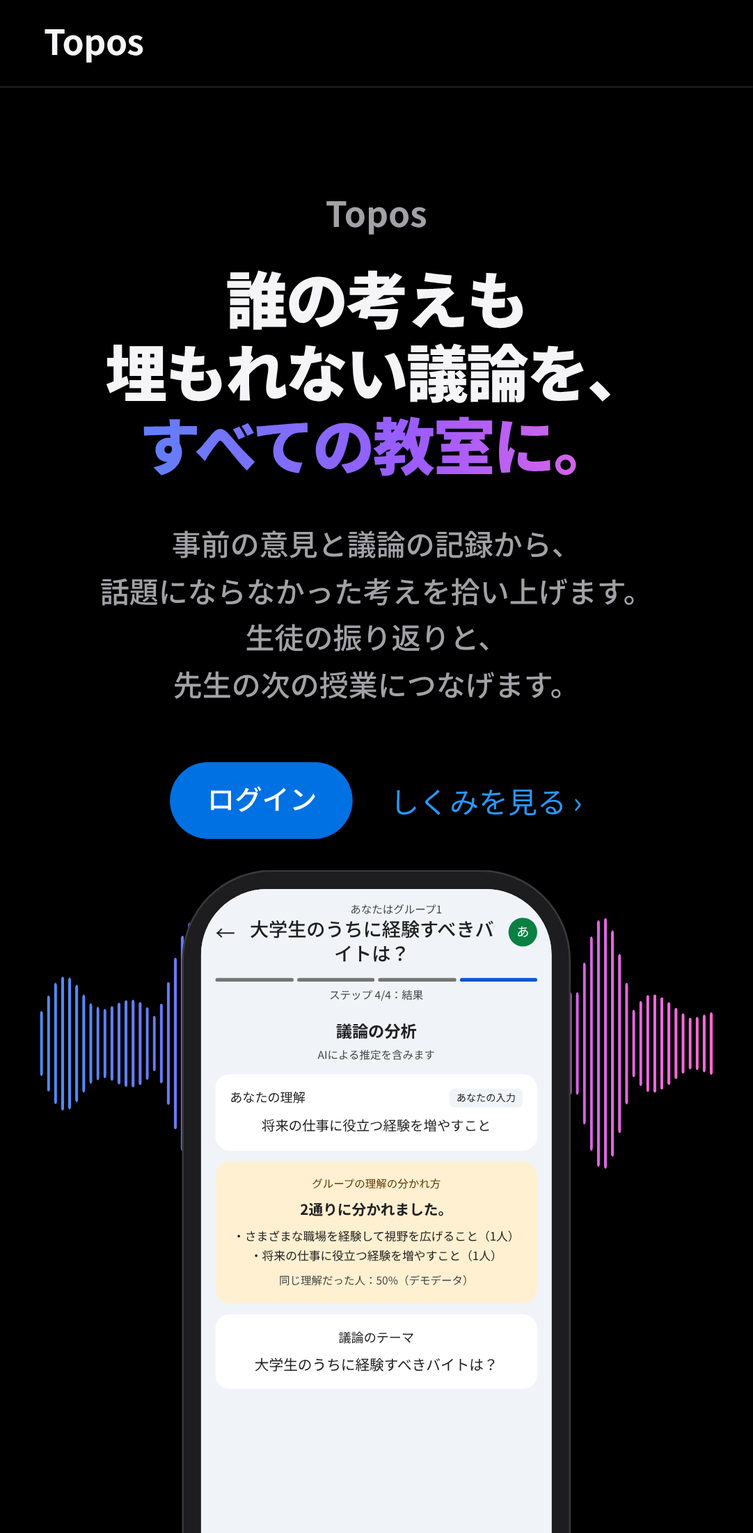
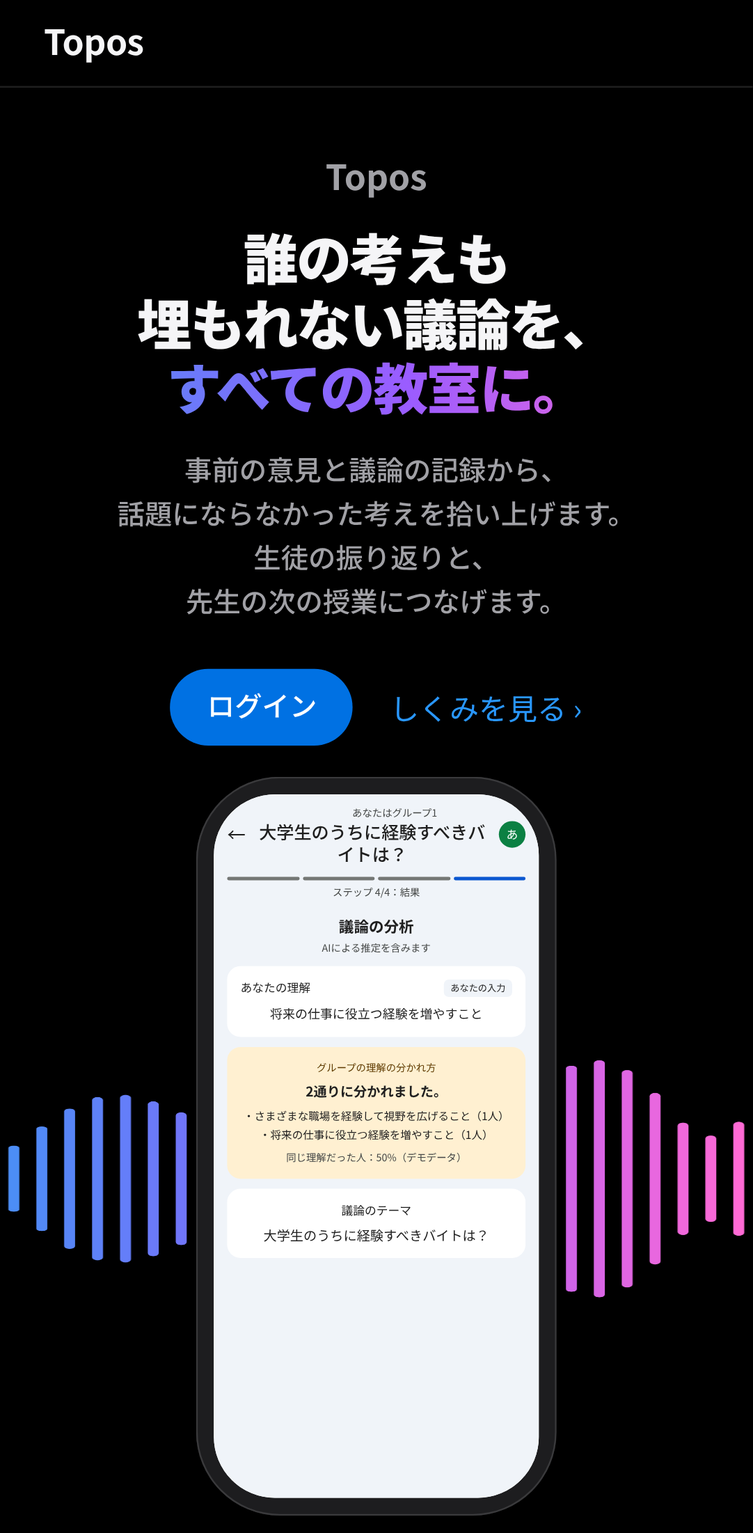
fix(web): LP のヒーローを画面に収め、波を左右いっぱいに広げる
- ヒーローのデバイス（ノート PC とスマホ）全体が、画面の高さに収まるように縮める。見出しまわりの余白と文字の大きさを、画面の高さに合わせて少し詰める
- 背景の波を、デバイスの拡大縮小から切り離して画面の横幅いっぱいに描く。棒の間隔はおよそ15pxで、幅が変わったら描き直す
- 最後の CTA の波も横幅いっぱいにする

Claude-Session: https://claude.ai/code/session_016r5c49ZicmAPUPZcqmcLVJ

Changed region(s): [[0.0, 0.0926, 1.0, 1.0], [0.793, 0.247, 0.8235, 0.2779]]

diff --git a/web/src/components/lp/lpMarkup.ts b/web/src/components/lp/lpMarkup.ts
@@ -1,2 +1,2 @@
 /* LP の本文（静的な HTML）。動きは lpMotion.js が付ける。文言の正本は Figma「v8 Topos」 */
-export const LP_HTML = "<nav class=\"nav\" aria-label=\"メイン\"><div class=\"wrap\"><a href=\"/lp\" class=\"nm\">Topos</a><div class=\"r\"><a href=\"#why\">なぜ必要か</a><a href=\"#find\">しくみ</a><a href=\"#teachers\">先生へ</a><a href=\"#align\">学習指導要領</a><a href=\"#faq\">よくある質問</a><a href=\"/\" class=\"pill\">ログイン</a></div></div></nav>\n\n<header class=\"hero\" id=\"hero\">\n  <div class=\"htx\">\n    <div class=\"kick rv\">Topos</div>\n    <h1><span class=\"rv d1\">誰の考えも<br class=\"sp\">埋もれない議論を、</span><span class=\"rv d2 gt\">すべての教室に。</span></h1>\n    <p class=\"lead rv d3\">事前の意見と議論の記録から、<br class=\"sp\">話題にならなかった考えを拾い上げます。<br>生徒の振り返りと、<br class=\"sp\">先生の次の授業につなげます。</p>\n    <div class=\"acts rv d4\"><a href=\"/\" class=\"pill\">ログイン</a><a href=\"#find\" class=\"more\">しくみを見る ›</a></div>\n  </div>\n  <div class=\"sw\" id=\"sw\"><div class=\"stage\" id=\"stage\" aria-hidden=\"true\">\n    <svg class=\"wave\" data-wave viewBox=\"0 0 1440 340\" preserveAspectRatio=\"none\"></svg>\n    <div class=\"dev laptop\" id=\"laptop\"><div class=\"bz\"><div class=\"scr\" data-clone=\"182:568\" data-ow=\"1440\" style=\"width:968px;height:605px;border-radius:4px\"><div class=\"app\" style=\"transform:scale(.6722)\" data-app=\"pc\"></div></div></div><div class=\"base\"></div></div>\n    <div class=\"dev phone\" id=\"hphone\"><div class=\"scr\" data-clone=\"199:170\" data-ow=\"390\" style=\"width:228px;height:493px;border-radius:42px\"><div class=\"m\" data-m=\"result\" style=\"transform:scale(.5846)\"></div></div></div>\n  </div></div>\n</header>\n\n<section class=\"st\" id=\"statement\" aria-label=\"話さなかった子の考え\">\n  <div class=\"pin\"><div class=\"wrap\"><p class=\"big\" data-chars><span>話さなかったことは、</span><br><span class=\"gtw\">考えがなかったこと</span><br><span class=\"gtw\">ではない。</span></p></div></div>\n</section>\n\n<section class=\"why\" id=\"why\">\n  <div class=\"wrap\">\n    <h2 class=\"rv\">声の大きさで、<br class=\"pc\">学びが<br class=\"sp\">決まらないように。</h2>\n    <p class=\"lead rv d1\">グループで話し合う授業で、<br class=\"sp\">こんな場面はありませんか。</p>\n    <div class=\"cols\">\n      <div class=\"rv\"><div class=\"vz bars\"><i></i><i></i><i></i><i class=\"on\"></i></div><h3>書いてあるのに、<br>話題にならない意見。</h3><p>話し合いは、発言の多い子の意見から進みがちです。</p></div>\n      <div class=\"rv d1\"><div class=\"vz fork\"><svg viewBox=\"0 0 120 80\" width=\"120\" height=\"80\" aria-hidden=\"true\"><path d=\"M60 4 C60 40 20 34 20 76\" fill=\"none\" stroke=\"#6aa4ff\" stroke-width=\"4\" stroke-linecap=\"round\"/><path d=\"M60 4 C60 40 100 34 100 76\" fill=\"none\" stroke=\"#c18cff\" stroke-width=\"4\" stroke-linecap=\"round\"/></svg></div><h3>同じ結論でも、<br>理解は同じとは限らない。</h3><p>「賛成」の中身が、生徒ごとにちがうこともあります。</p></div>\n      <div class=\"rv d2\"><div class=\"vz dots\"><i class=\"on\"></i><i class=\"\"></i><i class=\"\"></i><i class=\"\"></i><i class=\"\"></i><i class=\"\"></i><i class=\"\"></i><i class=\"\"></i></div><h3>先生がその場で聞けるのは、<br>8グループのうち1つ。</h3><p>40人のクラスなら、8つの話し合いが同時に進みます。</p></div>\n    </div>\n  </div>\n</section>\n\n<section class=\"find\" id=\"find\">\n  <div class=\"wrap\">\n    <h2 class=\"rv\">Toposは、<br class=\"sp\">埋もれた考えを<br>3つの場所で見つけます。</h2>\n    <p class=\"src2 rv d1\">手がかりにするのは、事前に書いた意見、<br class=\"sp\">議論の音声、議論後に書く結論の一文。</p>\n    <div class=\"three\">\n      <div class=\"rv\"><i style=\"background:#ff6ad5\"></i><b>言えなかった意見</b><span>多様な考えを、学びに生かす</span></div>\n      <div class=\"rv d1\"><i style=\"background:#c18cff\"></i><b>言葉にしなかったズレ</b><span>ちがいに気づき、理解を深める</span></div>\n      <div class=\"rv d2\"><i style=\"background:#6aa4ff\"></i><b>黙った瞬間</b><span>振り返り、次の議論につなげる</span></div>\n    </div>\n  </div>\n</section>\n\n<section class=\"lost\" id=\"lost\">\n  <div class=\"pin\"><div class=\"wrap\">\n    <div class=\"hd\"><div class=\"sl\"><i style=\"background:#ff6ad5\"></i>言えなかった意見</div><h2>書いたのに、<br class=\"sp\">話題にならなかった。</h2></div>\n    <div class=\"field\" id=\"field\" aria-hidden=\"true\">\n      <div class=\"oc rd\" data-x=\"22\" data-y=\"30\" data-mx=\"27\" data-my=\"20\" data-d=\".2\"><div class=\"who\">事前の意見</div><div class=\"tx\">接客で、人と話す力がつく</div><div class=\"tg\">話された</div></div>\n      <div class=\"oc rd\" data-x=\"50\" data-y=\"16\" data-mx=\"74\" data-my=\"6\" data-d=\".35\"><div class=\"who\">事前の意見</div><div class=\"tx\">将来の仕事に近いバイトがいい</div><div class=\"tg\">話された</div></div>\n      <div class=\"oc rd\" data-x=\"79\" data-y=\"34\" data-mx=\"73\" data-my=\"46\" data-d=\".25\"><div class=\"who\">事前の意見</div><div class=\"tx\">いろんな職場で視野を広げたい</div><div class=\"tg\">話された</div></div>\n      <div class=\"oc tgt\" id=\"lostc\" data-x=\"66\" data-y=\"80\" data-mx=\"30\" data-my=\"78\" data-d=\".6\"><div class=\"who\">事前の意見</div><div class=\"tx\">勉強と両立できるかで選びたい</div><div class=\"tg\">まだ話されていない</div></div>\n    </div>\n    <p class=\"cap\">まだ話されていない論点は、<br class=\"sp\">議論の途中で先生に届きます。<br><b>全員に問いかけるかは、<br class=\"sp\">先生が決めます。</b></p>\n  </div></div>\n</section>\n\n<section class=\"split\" id=\"split\">\n  <div class=\"pin\"><div class=\"in\">\n    <div class=\"hd\"><div class=\"sl\"><i style=\"background:#c18cff\"></i>言葉にしなかったズレ</div><h2>同じ結論なのに、<br class=\"sp\">捉え方はちがっていた。</h2></div>\n    <div class=\"cl\"><div class=\"lb\">グループの結論</div><div class=\"q\">いろいろなバイトを経験すべき</div></div>\n    <svg class=\"lines pc\" viewBox=\"0 0 1200 300\" preserveAspectRatio=\"none\" aria-hidden=\"true\">\n      <path class=\"la\" d=\"M600 0 C600 150 300 130 300 300\" fill=\"none\" stroke=\"#6aa4ff\" stroke-width=\"3\" stroke-linecap=\"round\" vector-effect=\"non-scaling-stroke\"/>\n      <path class=\"lb\" d=\"M600 0 C600 150 900 130 900 300\" fill=\"none\" stroke=\"#c18cff\" stroke-width=\"3\" stroke-linecap=\"round\" vector-effect=\"non-scaling-stroke\"/>\n    </svg>\n    <svg class=\"lines sp\" viewBox=\"0 0 390 300\" preserveAspectRatio=\"none\" aria-hidden=\"true\">\n      <path class=\"la\" d=\"M195 0 C195 140 100 120 100 300\" fill=\"none\" stroke=\"#6aa4ff\" stroke-width=\"3\" stroke-linecap=\"round\" vector-effect=\"non-scaling-stroke\"/>\n      <path class=\"lb\" d=\"M195 0 C195 140 290 120 290 300\" fill=\"none\" stroke=\"#c18cff\" stroke-width=\"3\" stroke-linecap=\"round\" vector-effect=\"non-scaling-stroke\"/>\n    </svg>\n    <div class=\"rds\">\n      <div class=\"rd ra\"><div class=\"lb\">生徒Aにとっては</div><div class=\"q\" style=\"color:var(--a)\">いろんな職場で、<br>視野を広げるため。</div></div>\n      <div class=\"rd rb\"><div class=\"lb\">生徒Bにとっては</div><div class=\"q\" style=\"color:var(--b)\">将来の仕事に<br>役立てるため。</div></div>\n    </div>\n    <p class=\"cap\">結論を一人ずつ書くと、<br class=\"sp\">理解のちがいが見えてきます。<br><b>その気づきが、<br class=\"sp\">考えを深めるきっかけに。</b></p>\n  </div></div>\n</section>\n\n<section class=\"mo\" id=\"moment\">\n  <div class=\"sl rv\"><i style=\"background:#6aa4ff\"></i>黙った瞬間</div>\n  <div class=\"num gt\" data-count=\"12\"><span class=\"d\">12</span>分</div>\n  <h2 class=\"rv\">話題がそれた、その瞬間。</h2>\n  <p class=\"rv d1\">Dさんの発言の割合は<b>46%から14%へ。</b><br>Toposが示すのは、<br class=\"sp\">議論の流れと発言の割合の変化。<br><b>それを手がかりに、<br class=\"sp\">そのときの自分を本人が振り返ります。</b></p>\n  <figure class=\"chart\" aria-label=\"Dさんの発言率のグラフ。12分ごろ、話題がそれた場面で46%から14%に下がった\">\n    <div class=\"ttl\">Dさんの発言の割合（20分の議論・推定）</div>\n    <div class=\"plot\">\n      <div class=\"band\"><span>話題がそれた</span></div>\n      <svg viewBox=\"0 0 1000 260\" preserveAspectRatio=\"none\" aria-hidden=\"true\">\n        <line x1=\"0\" y1=\"240\" x2=\"1000\" y2=\"240\" stroke=\"#3a3a3c\" vector-effect=\"non-scaling-stroke\"/>\n        <path class=\"area\" d=\"M0 132 C16.7 128.4 58.3 117.0 100 110.4 C141.7 103.8 200.0 97.8 250 92.4 C300.0 87.0 358.3 82.2 400 78 C441.7 73.8 470.8 67.8 500 67.2 C529.2 66.6 550.0 54.0 575 74.4 C600.0 94.8 620.8 172.8 650 189.6 C679.2 206.4 716.7 181.2 750 175.2 C783.3 169.2 808.3 159.0 850 153.6 C891.7 148.2 975.0 144.6 1000 142.8 L1000 240 L0 240 Z\" fill=\"url(#mg)\" opacity=\".35\"/>\n        <path class=\"ln\" d=\"M0 132 C16.7 128.4 58.3 117.0 100 110.4 C141.7 103.8 200.0 97.8 250 92.4 C300.0 87.0 358.3 82.2 400 78 C441.7 73.8 470.8 67.8 500 67.2 C529.2 66.6 550.0 54.0 575 74.4 C600.0 94.8 620.8 172.8 650 189.6 C679.2 206.4 716.7 181.2 750 175.2 C783.3 169.2 808.3 159.0 850 153.6 C891.7 148.2 975.0 144.6 1000 142.8\" fill=\"none\" stroke=\"url(#ml)\" stroke-width=\"4\" stroke-linecap=\"round\" vector-effect=\"non-scaling-stroke\"/>\n        <defs><linearGradient id=\"ml\" x1=\"0\" x2=\"1\"><stop offset=\"0\" stop-color=\"#4c8df6\"/><stop offset=\".55\" stop-color=\"#9b5cff\"/><stop offset=\"1\" stop-color=\"#ff6ad5\"/></linearGradient>\n        <linearGradient id=\"mg\" x1=\"0\" y1=\"0\" x2=\"0\" y2=\"1\"><stop offset=\"0\" stop-color=\"#8f7cff\" stop-opacity=\".7\"/><stop offset=\"1\" stop-color=\"#8f7cff\" stop-opacity=\"0\"/></linearGradient></defs>\n      </svg>\n      <div class=\"pt hi\" style=\"left:57.5%;top:28.6%\"><i></i><span>46%</span></div>\n      <div class=\"pt lo\" style=\"left:65%;top:72.9%\"><i class=\"pulse2\"></i><span>12分ごろ　14%</span></div>\n    </div>\n    <div class=\"ax\"><span>0分</span><span>5分</span><span>10分</span><span>15分</span><span>20分</span></div>\n  </figure>\n</section>\n\n<section class=\"story\" id=\"story\">\n  <div class=\"wrap\">\n    <div class=\"intro\"><h2 class=\"rv\">授業のあと、<br>一人ひとりの手元に。</h2></div>\n    <div class=\"grid\">\n      <div class=\"steps\">\n        <div class=\"stp\" data-step=\"0\"><div class=\"lb\">1　議論</div><h3>いつも通りに、<br>話すだけ。</h3><p>全員の意見がそろったら、議論を始めます。</p></div>\n        <div class=\"stp\" data-step=\"1\"><div class=\"lb\">2　結論の理解</div><h3>同じ言葉の、<br>ちがう理解。</h3><p>理解の分かれ方を、AIが推定して示します。</p></div>\n        <div class=\"stp\" data-step=\"2\"><div class=\"lb\">3　議論の流れ</div><h3>あの場面を、<br>もう一度。</h3><p>議論の流れを手がかりに、自分で振り返ります。</p></div>\n        <div class=\"stp\" data-step=\"3\"><div class=\"lb\">4　振り返り</div><h3>次の目標は、<br>自分で決める。</h3><p>立てた目標は、次の議論の前に表示されます。</p></div>\n      </div>\n      <div class=\"stk\"><div class=\"phone\"><div class=\"scr\" data-clone=\"199:170\" data-ow=\"390\" style=\"width:318px;height:688px;border-radius:42px\" id=\"sscr\">\n        <div class=\"m\" data-m=\"rec\" style=\"transform:scale(.8154)\"></div>\n        <div class=\"m\" data-m=\"result\" style=\"transform:scale(.8154);opacity:0\"></div>\n        <div class=\"m\" data-m=\"flow\" style=\"transform:scale(.8154);opacity:0\"></div>\n        <div class=\"m\" data-m=\"refl\" style=\"transform:scale(.8154);opacity:0\"></div>\n      </div></div></div>\n    </div>\n  </div>\n</section>\n\n<section class=\"rooms\" id=\"rooms\" aria-label=\"授業中と授業後に先生が見られるグループの範囲\">\n  <div class=\"pin\">\n    <div class=\"rc\"><p class=\"c1\">授業中、<br class=\"sp\">先生がその場で聞けるのは、<br>ひとつのグループだけ。</p><p class=\"c2\">授業のあとなら、<br>すべてのグループに<br class=\"sp\">目を向けられる。</p></div>\n    <div class=\"rgw\"><div class=\"grid8\" id=\"grid8\"><div class=\"room\" data-n=\"1\"><div class=\"rn\">グループ1</div><div class=\"nb\"><i style=\"background:#d3e3fd\"></i><i style=\"background:#fff0d1\"></i><i style=\"background:#f3edff\"></i><i style=\"background:#c2e7ff\"></i><i style=\"background:#ffd7ef\"></i><i style=\"background:#d3e3fd\"></i></div></div><div class=\"room\" data-n=\"2\"><div class=\"rn\">グループ2</div><div class=\"nb\"><i style=\"background:#c2e7ff\"></i><i style=\"background:#f3edff\"></i><i style=\"background:#fff0d1\"></i><i style=\"background:#d3e3fd\"></i><i style=\"background:#ffd7ef\"></i><i style=\"background:#c2e7ff\"></i></div></div><div class=\"room\" data-n=\"3\"><div class=\"rn\">グループ3</div><div class=\"nb\"><i style=\"background:#fff0d1\"></i><i style=\"background:#d3e3fd\"></i><i style=\"background:#ffd7ef\"></i><i style=\"background:#c2e7ff\"></i><i style=\"background:#f3edff\"></i><i style=\"background:#fff0d1\"></i></div><div class=\"bd am\">12〜14分、話題がそれた</div></div><div class=\"room\" data-n=\"4\"><div class=\"rn\">グループ4</div><div class=\"nb\"><i style=\"background:#f3edff\"></i><i style=\"background:#c2e7ff\"></i><i style=\"background:#d3e3fd\"></i><i style=\"background:#ffd7ef\"></i><i style=\"background:#fff0d1\"></i><i style=\"background:#d3e3fd\"></i></div></div><div class=\"room\" data-n=\"5\"><div class=\"rn\">グループ5</div><div class=\"nb\"><i style=\"background:#ffd7ef\"></i><i style=\"background:#d3e3fd\"></i><i style=\"background:#c2e7ff\"></i><i style=\"background:#fff0d1\"></i><i style=\"background:#f3edff\"></i><i style=\"background:#c2e7ff\"></i></div><div class=\"bd pu\">理解が2通りに分かれた</div></div><div class=\"room\" data-n=\"6\"><div class=\"rn\">グループ6</div><div class=\"nb\"><i style=\"background:#d3e3fd\"></i><i style=\"background:#ffd7ef\"></i><i style=\"background:#f3edff\"></i><i style=\"background:#c2e7ff\"></i><i style=\"background:#fff0d1\"></i><i style=\"background:#f3edff\"></i></div></div><div class=\"room\" data-n=\"7\"><div class=\"rn\">グループ7</div><div class=\"nb\"><i style=\"background:#c2e7ff\"></i><i style=\"background:#fff0d1\"></i><i style=\"background:#d3e3fd\"></i><i style=\"background:#f3edff\"></i><i style=\"background:#ffd7ef\"></i><i style=\"background:#d3e3fd\"></i></div></div><div class=\"room\" data-n=\"8\"><div class=\"rn\">グループ8</div><div class=\"nb\"><i style=\"background:#fff0d1\"></i><i style=\"background:#f3edff\"></i><i style=\"background:#c2e7ff\"></i><i style=\"background:#d3e3fd\"></i><i style=\"background:#ffd7ef\"></i><i style=\"background:#fff0d1\"></i></div></div></div></div>\n  </div>\n</section>\n\n<section class=\"hl\" id=\"teachers\">\n  <div class=\"wrap\"><h2 class=\"rv\">先生には、<br>教室全体の見取り図を。</h2></div>\n  <div class=\"track\" id=\"track\">\n    <article class=\"card\" style=\"background:#f5f5f7\"><div class=\"lb\">すべてのグループを</div><h3>聞けなかった議論も、<br>授業のあとで。</h3><p>すべてのグループの結果を、あとから確認できます。</p>\n      <div class=\"scr\" data-clone=\"182:568\" data-ow=\"1440\" style=\"position:absolute;left:48px;top:320px;width:720px;height:450px;border-radius:12px;box-shadow:0 30px 60px -20px rgba(0,0,0,.25)\"><div class=\"app\" style=\"transform:scale(.5)\" data-app=\"pc\"></div></div></article>\n    <article class=\"card\" style=\"background:#000;color:#f5f5f7\"><div class=\"lb\">支援が必要なグループに</div><h3>支えたいグループが、<br>見えてくる。</h3><p>理解が分かれたグループや、もう一度考えたい論点がわかります。</p>\n      <div style=\"position:absolute;left:48px;right:48px;bottom:56px;display:flex;flex-direction:column;gap:12px\">\n        <div style=\"background:#1d1d1f;border-radius:18px;padding:18px 22px\"><div style=\"font-size:13px;color:#86868b\">グループ3</div><div style=\"font-size:19px;font-weight:700;margin-top:4px\">12〜14分、話題がテーマからそれました</div></div>\n        <div style=\"background:#1d1d1f;border-radius:18px;padding:18px 22px\"><div style=\"font-size:13px;color:#86868b\">グループ5</div><div style=\"font-size:19px;font-weight:700;margin-top:4px\">結論の理解が、2通りに分かれました</div></div>\n      </div></article>\n    <article class=\"card\" style=\"background:linear-gradient(160deg,#e8f0fe,#f3edff)\"><div class=\"lb\">次の授業へ</div><h3>聞けなかった議論が、<br>次の授業のヒントに。</h3><p>結果をもとに、次の授業で扱う問いを考えられます。</p>\n      <div class=\"ex\" style=\"position:absolute;left:48px;right:48px;bottom:56px;background:#fff;border-radius:20px;padding:26px\"><div style=\"font-size:14px;color:#6e6e73\">分析結果　グループ5</div><div style=\"font-size:19px;font-weight:700;margin-top:4px;line-height:1.5\">同じ結論でも、理解が2通りに分かれていた</div><div style=\"font-size:14px;color:#6e6e73;margin-top:18px\">たとえば、次の授業で</div><div class=\"gt\" style=\"font-size:24px;line-height:1.45;font-weight:900;margin-top:4px\">「私たちは何のために、<br>その結論を選んだのか」を<br>5分間話し合う。</div></div></article>\n    <article class=\"card\" style=\"background:#000;color:#f5f5f7\"><div class=\"lb\">いつもの授業で</div><h3>いつもの話し合いに、<br>そのまま組み込める。</h3><p>手元のタブレットやスマホで、コード6桁から。インストールは不要です。</p>\n      <div style=\"position:absolute;left:48px;bottom:64px;display:flex;gap:10px\"><span class=\"cb\" style=\"width:58px;height:76px;border-radius:14px;background:#1d1d1f;display:flex;align-items:center;justify-content:center;font-size:36px;font-weight:700\">4</span><span class=\"cb\" style=\"width:58px;height:76px;border-radius:14px;background:#1d1d1f;display:flex;align-items:center;justify-content:center;font-size:36px;font-weight:700\">8</span><span class=\"cb\" style=\"width:58px;height:76px;border-radius:14px;background:#1d1d1f;display:flex;align-items:center;justify-content:center;font-size:36px;font-weight:700\">2</span><span class=\"cb\" style=\"width:58px;height:76px;border-radius:14px;background:#1d1d1f;display:flex;align-items:center;justify-content:center;font-size:36px;font-weight:700\">9</span><span class=\"cb\" style=\"width:58px;height:76px;border-radius:14px;background:#1d1d1f;display:flex;align-items:center;justify-content:center;font-size:36px;font-weight:700\">1</span><span class=\"cb\" style=\"width:58px;height:76px;border-radius:14px;background:#1d1d1f;box-shadow:inset 0 0 0 3px #2997ff\"></span></div></article>\n  </div>\n  <div class=\"hl-nav\"><button class=\"hl-btn\" data-dir=\"-1\" aria-label=\"前へ\">‹</button><button class=\"hl-btn\" data-dir=\"1\" aria-label=\"次へ\">›</button></div>\n</section>\n\n<section class=\"al\" id=\"align\">\n  <div class=\"wrap\">\n    <h2 class=\"rv\">これからの授業が<br class=\"sp\">求めることと、<br>重なっている。</h2>\n    <p class=\"lead rv d1\">次期学習指導要領に向けて示された<br class=\"sp\">3つの方向性と、Toposの役割。</p>\n    <div class=\"rows\">\n      <div class=\"row rv\"><span class=\"tg\">「主体的・対話的で深い学び」の実装</span><p>理解のちがいを確かめ、考えを深める。</p></div>\n      <div class=\"row rv d1\"><span class=\"tg\">多様性の包摂</span><p>発言しづらい生徒の考えにも、目を向ける。</p></div>\n      <div class=\"row rv d2\"><span class=\"tg\">実現可能性の確保</span><p>複数グループの議論を、先生が振り返れるよう支える。</p></div>\n    </div>\n    <p class=\"src\">出典：中央教育審議会 初等中等教育分科会 教育課程部会「次期学習指導要領等に向けた審議まとめ」（2026年10月5日公表）。Toposは文部科学省の認定等を受けたものではありません。</p>\n  </div>\n</section>\n\n<section class=\"how\" id=\"how\">\n  <div class=\"wrap\">\n    <h2 class=\"rv\">準備は、<br class=\"sp\">テーマを入れるだけ。</h2>\n    <div class=\"stps\">\n      <div class=\"stp rv\"><div class=\"n gt\">1</div><h4>議論を作る</h4><p>テーマを入れると、コードが出ます。</p></div>\n      <div class=\"stp rv d1\"><div class=\"n gt\">2</div><h4>意見を書く</h4><p>コードで参加し、議論の前に意見を書く。声の登録は約9秒。</p></div>\n      <div class=\"stp rv d2\"><div class=\"n gt\">3</div><h4>いつも通り話す</h4><p>全員の同意で、録音を開始。</p></div>\n      <div class=\"stp rv d3\"><div class=\"n gt\">4</div><h4>結論を一文で</h4><p>書き終えると、分析が始まります。</p></div>\n    </div>\n  </div>\n</section>\n\n<section class=\"faq\" id=\"faq\">\n  <div class=\"wrap\">\n    <h2 class=\"rv\">よくある質問</h2>\n    <div class=\"qs\">\n      <details open><summary>どんな授業で使えますか？</summary><p>テーマは先生が入力するので、教科を問わず、グループで話し合う授業に使えます。</p></details>\n      <details><summary>先生と生徒は何を準備すればいいですか？</summary><p>先生はテーマを入れるだけです。先生のアカウントは、利用の申し込みのあとに招待でお渡しします。生徒はGoogleアカウントでログインし、6桁のコードかQRコードで参加して、議論の前に意見を書き、声を約9秒で登録します。</p></details>\n      <details><summary>どんな端末で使えますか？</summary><p>生徒はタブレットやスマホのブラウザから参加できます。インストールは不要です。</p></details>\n    </div>\n  </div>\n</section>\n\n<section class=\"cta\" id=\"start\">\n  <svg class=\"wave\" data-wave viewBox=\"0 0 1440 340\" preserveAspectRatio=\"none\" aria-hidden=\"true\"></svg>\n  <h2 class=\"rv\">次の話し合いから、<br>埋もれていた考えに<br>目を向けよう。</h2>\n  <div class=\"acts rv d1\"><a href=\"mailto:contact@yuto-matsui.com?subject=Topos%20%E3%81%AE%E5%88%A9%E7%94%A8%E7%94%B3%E3%81%97%E8%BE%BC%E3%81%BF&amp;body=%E5%AD%A6%E6%A0%A1%E5%90%8D%EF%BC%9A%0A%E3%81%8A%E5%90%8D%E5%89%8D%EF%BC%9A%0A%E6%8B%85%E5%BD%93%E3%81%AE%E6%8E%88%E6%A5%AD%E3%83%BB%E5%AD%A6%E5%B9%B4%EF%BC%9A%0A%E4%BD%BF%E3%81%86%E6%95%99%E5%93%A1%E3%81%AE%E4%BA%BA%E6%95%B0%EF%BC%9A%0A\" class=\"pill\">利用を申し込む</a><a href=\"/\" class=\"more\">ログイン ›</a></div>\n</section>\n<footer><div class=\"wrap\">画面と数値は開発中のデモデータです。<div class=\"ln\"><span>© 2026 Topos</span><a href=\"/about\">プライバシー</a><a href=\"mailto:contact@yuto-matsui.com?subject=Topos%20%E3%81%AE%E5%88%A9%E7%94%A8%E7%94%B3%E3%81%97%E8%BE%BC%E3%81%BF&amp;body=%E5%AD%A6%E6%A0%A1%E5%90%8D%EF%BC%9A%0A%E3%81%8A%E5%90%8D%E5%89%8D%EF%BC%9A%0A%E6%8B%85%E5%BD%93%E3%81%AE%E6%8E%88%E6%A5%AD%E3%83%BB%E5%AD%A6%E5%B9%B4%EF%BC%9A%0A%E4%BD%BF%E3%81%86%E6%95%99%E5%93%A1%E3%81%AE%E4%BA%BA%E6%95%B0%EF%BC%9A%0A\">お問い合わせ</a></div></div></footer>";
+export const LP_HTML = "<nav class=\"nav\" aria-label=\"メイン\"><div class=\"wrap\"><a href=\"/lp\" class=\"nm\">Topos</a><div class=\"r\"><a href=\"#why\">なぜ必要か</a><a href=\"#find\">しくみ</a><a href=\"#teachers\">先生へ</a><a href=\"#align\">学習指導要領</a><a href=\"#faq\">よくある質問</a><a href=\"/\" class=\"pill\">ログイン</a></div></div></nav>\n\n<header class=\"hero\" id=\"hero\">\n  <div class=\"htx\">\n    <div class=\"kick rv\">Topos</div>\n    <h1><span class=\"rv d1\">誰の考えも<br class=\"sp\">埋もれない議論を、</span><span class=\"rv d2 gt\">すべての教室に。</span></h1>\n    <p class=\"lead rv d3\">事前の意見と議論の記録から、<br class=\"sp\">話題にならなかった考えを拾い上げます。<br>生徒の振り返りと、<br class=\"sp\">先生の次の授業につなげます。</p>\n    <div class=\"acts rv d4\"><a href=\"/\" class=\"pill\">ログイン</a><a href=\"#find\" class=\"more\">しくみを見る ›</a></div>\n  </div>\n  <div class=\"sw\" id=\"sw\"><svg class=\"wave hw\" data-wave preserveAspectRatio=\"none\" aria-hidden=\"true\"></svg><div class=\"stage\" id=\"stage\" aria-hidden=\"true\">\n    <div class=\"dev laptop\" id=\"laptop\"><div class=\"bz\"><div class=\"scr\" data-clone=\"182:568\" data-ow=\"1440\" style=\"width:968px;height:605px;border-radius:4px\"><div class=\"app\" style=\"transform:scale(.6722)\" data-app=\"pc\"></div></div></div><div class=\"base\"></div></div>\n    <div class=\"dev phone\" id=\"hphone\"><div class=\"scr\" data-clone=\"199:170\" data-ow=\"390\" style=\"width:228px;height:493px;border-radius:42px\"><div class=\"m\" data-m=\"result\" style=\"transform:scale(.5846)\"></div></div></div>\n  </div></div>\n</header>\n\n<section class=\"st\" id=\"statement\" aria-label=\"話さなかった子の考え\">\n  <div class=\"pin\"><div class=\"wrap\"><p class=\"big\" data-chars><span>話さなかったことは、</span><br><span class=\"gtw\">考えがなかったこと</span><br><span class=\"gtw\">ではない。</span></p></div></div>\n</section>\n\n<section class=\"why\" id=\"why\">\n  <div class=\"wrap\">\n    <h2 class=\"rv\">声の大きさで、<br class=\"pc\">学びが<br class=\"sp\">決まらないように。</h2>\n    <p class=\"lead rv d1\">グループで話し合う授業で、<br class=\"sp\">こんな場面はありませんか。</p>\n    <div class=\"cols\">\n      <div class=\"rv\"><div class=\"vz bars\"><i></i><i></i><i></i><i class=\"on\"></i></div><h3>書いてあるのに、<br>話題にならない意見。</h3><p>話し合いは、発言の多い子の意見から進みがちです。</p></div>\n      <div class=\"rv d1\"><div class=\"vz fork\"><svg viewBox=\"0 0 120 80\" width=\"120\" height=\"80\" aria-hidden=\"true\"><path d=\"M60 4 C60 40 20 34 20 76\" fill=\"none\" stroke=\"#6aa4ff\" stroke-width=\"4\" stroke-linecap=\"round\"/><path d=\"M60 4 C60 40 100 34 100 76\" fill=\"none\" stroke=\"#c18cff\" stroke-width=\"4\" stroke-linecap=\"round\"/></svg></div><h3>同じ結論でも、<br>理解は同じとは限らない。</h3><p>「賛成」の中身が、生徒ごとにちがうこともあります。</p></div>\n      <div class=\"rv d2\"><div class=\"vz dots\"><i class=\"on\"></i><i class=\"\"></i><i class=\"\"></i><i class=\"\"></i><i class=\"\"></i><i class=\"\"></i><i class=\"\"></i><i class=\"\"></i></div><h3>先生がその場で聞けるのは、<br>8グループのうち1つ。</h3><p>40人のクラスなら、8つの話し合いが同時に進みます。</p></div>\n    </div>\n  </div>\n</section>\n\n<section class=\"find\" id=\"find\">\n  <div class=\"wrap\">\n    <h2 class=\"rv\">Toposは、<br class=\"sp\">埋もれた考えを<br>3つの場所で見つけます。</h2>\n    <p class=\"src2 rv d1\">手がかりにするのは、事前に書いた意見、<br class=\"sp\">議論の音声、議論後に書く結論の一文。</p>\n    <div class=\"three\">\n      <div class=\"rv\"><i style=\"background:#ff6ad5\"></i><b>言えなかった意見</b><span>多様な考えを、学びに生かす</span></div>\n      <div class=\"rv d1\"><i style=\"background:#c18cff\"></i><b>言葉にしなかったズレ</b><span>ちがいに気づき、理解を深める</span></div>\n      <div class=\"rv d2\"><i style=\"background:#6aa4ff\"></i><b>黙った瞬間</b><span>振り返り、次の議論につなげる</span></div>\n    </div>\n  </div>\n</section>\n\n<section class=\"lost\" id=\"lost\">\n  <div class=\"pin\"><div class=\"wrap\">\n    <div class=\"hd\"><div class=\"sl\"><i style=\"background:#ff6ad5\"></i>言えなかった意見</div><h2>書いたのに、<br class=\"sp\">話題にならなかった。</h2></div>\n    <div class=\"field\" id=\"field\" aria-hidden=\"true\">\n      <div class=\"oc rd\" data-x=\"22\" data-y=\"30\" data-mx=\"27\" data-my=\"20\" data-d=\".2\"><div class=\"who\">事前の意見</div><div class=\"tx\">接客で、人と話す力がつく</div><div class=\"tg\">話された</div></div>\n      <div class=\"oc rd\" data-x=\"50\" data-y=\"16\" data-mx=\"74\" data-my=\"6\" data-d=\".35\"><div class=\"who\">事前の意見</div><div class=\"tx\">将来の仕事に近いバイトがいい</div><div class=\"tg\">話された</div></div>\n      <div class=\"oc rd\" data-x=\"79\" data-y=\"34\" data-mx=\"73\" data-my=\"46\" data-d=\".25\"><div class=\"who\">事前の意見</div><div class=\"tx\">いろんな職場で視野を広げたい</div><div class=\"tg\">話された</div></div>\n      <div class=\"oc tgt\" id=\"lostc\" data-x=\"66\" data-y=\"80\" data-mx=\"30\" data-my=\"78\" data-d=\".6\"><div class=\"who\">事前の意見</div><div class=\"tx\">勉強と両立できるかで選びたい</div><div class=\"tg\">まだ話されていない</div></div>\n    </div>\n    <p class=\"cap\">まだ話されていない論点は、<br class=\"sp\">議論の途中で先生に届きます。<br><b>全員に問いかけるかは、<br class=\"sp\">先生が決めます。</b></p>\n  </div></div>\n</section>\n\n<section class=\"split\" id=\"split\">\n  <div class=\"pin\"><div class=\"in\">\n    <div class=\"hd\"><div class=\"sl\"><i style=\"background:#c18cff\"></i>言葉にしなかったズレ</div><h2>同じ結論なのに、<br class=\"sp\">捉え方はちがっていた。</h2></div>\n    <div class=\"cl\"><div class=\"lb\">グループの結論</div><div class=\"q\">いろいろなバイトを経験すべき</div></div>\n    <svg class=\"lines pc\" viewBox=\"0 0 1200 300\" preserveAspectRatio=\"none\" aria-hidden=\"true\">\n      <path class=\"la\" d=\"M600 0 C600 150 300 130 300 300\" fill=\"none\" stroke=\"#6aa4ff\" stroke-width=\"3\" stroke-linecap=\"round\" vector-effect=\"non-scaling-stroke\"/>\n      <path class=\"lb\" d=\"M600 0 C600 150 900 130 900 300\" fill=\"none\" stroke=\"#c18cff\" stroke-width=\"3\" stroke-linecap=\"round\" vector-effect=\"non-scaling-stroke\"/>\n    </svg>\n    <svg class=\"lines sp\" viewBox=\"0 0 390 300\" preserveAspectRatio=\"none\" aria-hidden=\"true\">\n      <path class=\"la\" d=\"M195 0 C195 140 100 120 100 300\" fill=\"none\" stroke=\"#6aa4ff\" stroke-width=\"3\" stroke-linecap=\"round\" vector-effect=\"non-scaling-stroke\"/>\n      <path class=\"lb\" d=\"M195 0 C195 140 290 120 290 300\" fill=\"none\" stroke=\"#c18cff\" stroke-width=\"3\" stroke-linecap=\"round\" vector-effect=\"non-scaling-stroke\"/>\n    </svg>\n    <div class=\"rds\">\n      <div class=\"rd ra\"><div class=\"lb\">生徒Aにとっては</div><div class=\"q\" style=\"color:var(--a)\">いろんな職場で、<br>視野を広げるため。</div></div>\n      <div class=\"rd rb\"><div class=\"lb\">生徒Bにとっては</div><div class=\"q\" style=\"color:var(--b)\">将来の仕事に<br>役立てるため。</div></div>\n    </div>\n    <p class=\"cap\">結論を一人ずつ書くと、<br class=\"sp\">理解のちがいが見えてきます。<br><b>その気づきが、<br class=\"sp\">考えを深めるきっかけに。</b></p>\n  </div></div>\n</section>\n\n<section class=\"mo\" id=\"moment\">\n  <div class=\"sl rv\"><i style=\"background:#6aa4ff\"></i>黙った瞬間</div>\n  <div class=\"num gt\" data-count=\"12\"><span class=\"d\">12</span>分</div>\n  <h2 class=\"rv\">話題がそれた、その瞬間。</h2>\n  <p class=\"rv d1\">Dさんの発言の割合は<b>46%から14%へ。</b><br>Toposが示すのは、<br class=\"sp\">議論の流れと発言の割合の変化。<br><b>それを手がかりに、<br class=\"sp\">そのときの自分を本人が振り返ります。</b></p>\n  <figure class=\"chart\" aria-label=\"Dさんの発言率のグラフ。12分ごろ、話題がそれた場面で46%から14%に下がった\">\n    <div class=\"ttl\">Dさんの発言の割合（20分の議論・推定）</div>\n    <div class=\"plot\">\n      <div class=\"band\"><span>話題がそれた</span></div>\n      <svg viewBox=\"0 0 1000 260\" preserveAspectRatio=\"none\" aria-hidden=\"true\">\n        <line x1=\"0\" y1=\"240\" x2=\"1000\" y2=\"240\" stroke=\"#3a3a3c\" vector-effect=\"non-scaling-stroke\"/>\n        <path class=\"area\" d=\"M0 132 C16.7 128.4 58.3 117.0 100 110.4 C141.7 103.8 200.0 97.8 250 92.4 C300.0 87.0 358.3 82.2 400 78 C441.7 73.8 470.8 67.8 500 67.2 C529.2 66.6 550.0 54.0 575 74.4 C600.0 94.8 620.8 172.8 650 189.6 C679.2 206.4 716.7 181.2 750 175.2 C783.3 169.2 808.3 159.0 850 153.6 C891.7 148.2 975.0 144.6 1000 142.8 L1000 240 L0 240 Z\" fill=\"url(#mg)\" opacity=\".35\"/>\n        <path class=\"ln\" d=\"M0 132 C16.7 128.4 58.3 117.0 100 110.4 C141.7 103.8 200.0 97.8 250 92.4 C300.0 87.0 358.3 82.2 400 78 C441.7 73.8 470.8 67.8 500 67.2 C529.2 66.6 550.0 54.0 575 74.4 C600.0 94.8 620.8 172.8 650 189.6 C679.2 206.4 716.7 181.2 750 175.2 C783.3 169.2 808.3 159.0 850 153.6 C891.7 148.2 975.0 144.6 1000 142.8\" fill=\"none\" stroke=\"url(#ml)\" stroke-width=\"4\" stroke-linecap=\"round\" vector-effect=\"non-scaling-stroke\"/>\n        <defs><linearGradient id=\"ml\" x1=\"0\" x2=\"1\"><stop offset=\"0\" stop-color=\"#4c8df6\"/><stop offset=\".55\" stop-color=\"#9b5cff\"/><stop offset=\"1\" stop-color=\"#ff6ad5\"/></linearGradient>\n        <linearGradient id=\"mg\" x1=\"0\" y1=\"0\" x2=\"0\" y2=\"1\"><stop offset=\"0\" stop-color=\"#8f7cff\" stop-opacity=\".7\"/><stop offset=\"1\" stop-color=\"#8f7cff\" stop-opacity=\"0\"/></linearGradient></defs>\n      </svg>\n      <div class=\"pt hi\" style=\"left:57.5%;top:28.6%\"><i></i><span>46%</span></div>\n      <div class=\"pt lo\" style=\"left:65%;top:72.9%\"><i class=\"pulse2\"></i><span>12分ごろ　14%</span></div>\n    </div>\n    <div class=\"ax\"><span>0分</span><span>5分</span><span>10分</span><span>15分</span><span>20分</span></div>\n  </figure>\n</section>\n\n<section class=\"story\" id=\"story\">\n  <div class=\"wrap\">\n    <div class=\"intro\"><h2 class=\"rv\">授業のあと、<br>一人ひとりの手元に。</h2></div>\n    <div class=\"grid\">\n      <div class=\"steps\">\n        <div class=\"stp\" data-step=\"0\"><div class=\"lb\">1　議論</div><h3>いつも通りに、<br>話すだけ。</h3><p>全員の意見がそろったら、議論を始めます。</p></div>\n        <div class=\"stp\" data-step=\"1\"><div class=\"lb\">2　結論の理解</div><h3>同じ言葉の、<br>ちがう理解。</h3><p>理解の分かれ方を、AIが推定して示します。</p></div>\n        <div class=\"stp\" data-step=\"2\"><div class=\"lb\">3　議論の流れ</div><h3>あの場面を、<br>もう一度。</h3><p>議論の流れを手がかりに、自分で振り返ります。</p></div>\n        <div class=\"stp\" data-step=\"3\"><div class=\"lb\">4　振り返り</div><h3>次の目標は、<br>自分で決める。</h3><p>立てた目標は、次の議論の前に表示されます。</p></div>\n      </div>\n      <div class=\"stk\"><div class=\"phone\"><div class=\"scr\" data-clone=\"199:170\" data-ow=\"390\" style=\"width:318px;height:688px;border-radius:42px\" id=\"sscr\">\n        <div class=\"m\" data-m=\"rec\" style=\"transform:scale(.8154)\"></div>\n        <div class=\"m\" data-m=\"result\" style=\"transform:scale(.8154);opacity:0\"></div>\n        <div class=\"m\" data-m=\"flow\" style=\"transform:scale(.8154);opacity:0\"></div>\n        <div class=\"m\" data-m=\"refl\" style=\"transform:scale(.8154);opacity:0\"></div>\n      </div></div></div>\n    </div>\n  </div>\n</section>\n\n<section class=\"rooms\" id=\"rooms\" aria-label=\"授業中と授業後に先生が見られるグループの範囲\">\n  <div class=\"pin\">\n    <div class=\"rc\"><p class=\"c1\">授業中、<br class=\"sp\">先生がその場で聞けるのは、<br>ひとつのグループだけ。</p><p class=\"c2\">授業のあとなら、<br>すべてのグループに<br class=\"sp\">目を向けられる。</p></div>\n    <div class=\"rgw\"><div class=\"grid8\" id=\"grid8\"><div class=\"room\" data-n=\"1\"><div class=\"rn\">グループ1</div><div class=\"nb\"><i style=\"background:#d3e3fd\"></i><i style=\"background:#fff0d1\"></i><i style=\"background:#f3edff\"></i><i style=\"background:#c2e7ff\"></i><i style=\"background:#ffd7ef\"></i><i style=\"background:#d3e3fd\"></i></div></div><div class=\"room\" data-n=\"2\"><div class=\"rn\">グループ2</div><div class=\"nb\"><i style=\"background:#c2e7ff\"></i><i style=\"background:#f3edff\"></i><i style=\"background:#fff0d1\"></i><i style=\"background:#d3e3fd\"></i><i style=\"background:#ffd7ef\"></i><i style=\"background:#c2e7ff\"></i></div></div><div class=\"room\" data-n=\"3\"><div class=\"rn\">グループ3</div><div class=\"nb\"><i style=\"background:#fff0d1\"></i><i style=\"background:#d3e3fd\"></i><i style=\"background:#ffd7ef\"></i><i style=\"background:#c2e7ff\"></i><i style=\"background:#f3edff\"></i><i style=\"background:#fff0d1\"></i></div><div class=\"bd am\">12〜14分、話題がそれた</div></div><div class=\"room\" data-n=\"4\"><div class=\"rn\">グループ4</div><div class=\"nb\"><i style=\"background:#f3edff\"></i><i style=\"background:#c2e7ff\"></i><i style=\"background:#d3e3fd\"></i><i style=\"background:#ffd7ef\"></i><i style=\"background:#fff0d1\"></i><i style=\"background:#d3e3fd\"></i></div></div><div class=\"room\" data-n=\"5\"><div class=\"rn\">グループ5</div><div class=\"nb\"><i style=\"background:#ffd7ef\"></i><i style=\"background:#d3e3fd\"></i><i style=\"background:#c2e7ff\"></i><i style=\"background:#fff0d1\"></i><i style=\"background:#f3edff\"></i><i style=\"background:#c2e7ff\"></i></div><div class=\"bd pu\">理解が2通りに分かれた</div></div><div class=\"room\" data-n=\"6\"><div class=\"rn\">グループ6</div><div class=\"nb\"><i style=\"background:#d3e3fd\"></i><i style=\"background:#ffd7ef\"></i><i style=\"background:#f3edff\"></i><i style=\"background:#c2e7ff\"></i><i style=\"background:#fff0d1\"></i><i style=\"background:#f3edff\"></i></div></div><div class=\"room\" data-n=\"7\"><div class=\"rn\">グループ7</div><div class=\"nb\"><i style=\"background:#c2e7ff\"></i><i style=\"background:#fff0d1\"></i><i style=\"background:#d3e3fd\"></i><i style=\"background:#f3edff\"></i><i style=\"background:#ffd7ef\"></i><i style=\"background:#d3e3fd\"></i></div></div><div class=\"room\" data-n=\"8\"><div class=\"rn\">グループ8</div><div class=\"nb\"><i style=\"background:#fff0d1\"></i><i style=\"background:#f3edff\"></i><i style=\"background:#c2e7ff\"></i><i style=\"background:#d3e3fd\"></i><i style=\"background:#ffd7ef\"></i><i style=\"background:#fff0d1\"></i></div></div></div></div>\n  </div>\n</section>\n\n<section class=\"hl\" id=\"teachers\">\n  <div class=\"wrap\"><h2 class=\"rv\">先生には、<br>教室全体の見取り図を。</h2></div>\n  <div class=\"track\" id=\"track\">\n    <article class=\"card\" style=\"background:#f5f5f7\"><div class=\"lb\">すべてのグループを</div><h3>聞けなかった議論も、<br>授業のあとで。</h3><p>すべてのグループの結果を、あとから確認できます。</p>\n      <div class=\"scr\" data-clone=\"182:568\" data-ow=\"1440\" style=\"position:absolute;left:48px;top:320px;width:720px;height:450px;border-radius:12px;box-shadow:0 30px 60px -20px rgba(0,0,0,.25)\"><div class=\"app\" style=\"transform:scale(.5)\" data-app=\"pc\"></div></div></article>\n    <article class=\"card\" style=\"background:#000;color:#f5f5f7\"><div class=\"lb\">支援が必要なグループに</div><h3>支えたいグループが、<br>見えてくる。</h3><p>理解が分かれたグループや、もう一度考えたい論点がわかります。</p>\n      <div style=\"position:absolute;left:48px;right:48px;bottom:56px;display:flex;flex-direction:column;gap:12px\">\n        <div style=\"background:#1d1d1f;border-radius:18px;padding:18px 22px\"><div style=\"font-size:13px;color:#86868b\">グループ3</div><div style=\"font-size:19px;font-weight:700;margin-top:4px\">12〜14分、話題がテーマからそれました</div></div>\n        <div style=\"background:#1d1d1f;border-radius:18px;padding:18px 22px\"><div style=\"font-size:13px;color:#86868b\">グループ5</div><div style=\"font-size:19px;font-weight:700;margin-top:4px\">結論の理解が、2通りに分かれました</div></div>\n      </div></article>\n    <article class=\"card\" style=\"background:linear-gradient(160deg,#e8f0fe,#f3edff)\"><div class=\"lb\">次の授業へ</div><h3>聞けなかった議論が、<br>次の授業のヒントに。</h3><p>結果をもとに、次の授業で扱う問いを考えられます。</p>\n      <div class=\"ex\" style=\"position:absolute;left:48px;right:48px;bottom:56px;background:#fff;border-radius:20px;padding:26px\"><div style=\"font-size:14px;color:#6e6e73\">分析結果　グループ5</div><div style=\"font-size:19px;font-weight:700;margin-top:4px;line-height:1.5\">同じ結論でも、理解が2通りに分かれていた</div><div style=\"font-size:14px;color:#6e6e73;margin-top:18px\">たとえば、次の授業で</div><div class=\"gt\" style=\"font-size:24px;line-height:1.45;font-weight:900;margin-top:4px\">「私たちは何のために、<br>その結論を選んだのか」を<br>5分間話し合う。</div></div></article>\n    <article class=\"card\" style=\"background:#000;color:#f5f5f7\"><div class=\"lb\">いつもの授業で</div><h3>いつもの話し合いに、<br>そのまま組み込める。</h3><p>手元のタブレットやスマホで、コード6桁から。インストールは不要です。</p>\n      <div style=\"position:absolute;left:48px;bottom:64px;display:flex;gap:10px\"><span class=\"cb\" style=\"width:58px;height:76px;border-radius:14px;background:#1d1d1f;display:flex;align-items:center;justify-content:center;font-size:36px;font-weight:700\">4</span><span class=\"cb\" style=\"width:58px;height:76px;border-radius:14px;background:#1d1d1f;display:flex;align-items:center;justify-content:center;font-size:36px;font-weight:700\">8</span><span class=\"cb\" style=\"width:58px;height:76px;border-radius:14px;background:#1d1d1f;display:flex;align-items:center;justify-content:center;font-size:36px;font-weight:700\">2</span><span class=\"cb\" style=\"width:58px;height:76px;border-radius:14px;background:#1d1d1f;display:flex;align-items:center;justify-content:center;font-size:36px;font-weight:700\">9</span><span class=\"cb\" style=\"width:58px;height:76px;border-radius:14px;background:#1d1d1f;display:flex;align-items:center;justify-content:center;font-size:36px;font-weight:700\">1</span><span class=\"cb\" style=\"width:58px;height:76px;border-radius:14px;background:#1d1d1f;box-shadow:inset 0 0 0 3px #2997ff\"></span></div></article>\n  </div>\n  <div class=\"hl-nav\"><button class=\"hl-btn\" data-dir=\"-1\" aria-label=\"前へ\">‹</button><button class=\"hl-btn\" data-dir=\"1\" aria-label=\"次へ\">›</button></div>\n</section>\n\n<section class=\"al\" id=\"align\">\n  <div class=\"wrap\">\n    <h2 class=\"rv\">これからの授業が<br class=\"sp\">求めることと、<br>重なっている。</h2>\n    <p class=\"lead rv d1\">次期学習指導要領に向けて示された<br class=\"sp\">3つの方向性と、Toposの役割。</p>\n    <div class=\"rows\">\n      <div class=\"row rv\"><span class=\"tg\">「主体的・対話的で深い学び」の実装</span><p>理解のちがいを確かめ、考えを深める。</p></div>\n      <div class=\"row rv d1\"><span class=\"tg\">多様性の包摂</span><p>発言しづらい生徒の考えにも、目を向ける。</p></div>\n      <div class=\"row rv d2\"><span class=\"tg\">実現可能性の確保</span><p>複数グループの議論を、先生が振り返れるよう支える。</p></div>\n    </div>\n    <p class=\"src\">出典：中央教育審議会 初等中等教育分科会 教育課程部会「次期学習指導要領等に向けた審議まとめ」（2026年10月5日公表）。Toposは文部科学省の認定等を受けたものではありません。</p>\n  </div>\n</section>\n\n<section class=\"how\" id=\"how\">\n  <div class=\"wrap\">\n    <h2 class=\"rv\">準備は、<br class=\"sp\">テーマを入れるだけ。</h2>\n    <div class=\"stps\">\n      <div class=\"stp rv\"><div class=\"n gt\">1</div><h4>議論を作る</h4><p>テーマを入れると、コードが出ます。</p></div>\n      <div class=\"stp rv d1\"><div class=\"n gt\">2</div><h4>意見を書く</h4><p>コードで参加し、議論の前に意見を書く。声の登録は約9秒。</p></div>\n      <div class=\"stp rv d2\"><div class=\"n gt\">3</div><h4>いつも通り話す</h4><p>全員の同意で、録音を開始。</p></div>\n      <div class=\"stp rv d3\"><div class=\"n gt\">4</div><h4>結論を一文で</h4><p>書き終えると、分析が始まります。</p></div>\n    </div>\n  </div>\n</section>\n\n<section class=\"faq\" id=\"faq\">\n  <div class=\"wrap\">\n    <h2 class=\"rv\">よくある質問</h2>\n    <div class=\"qs\">\n      <details open><summary>どんな授業で使えますか？</summary><p>テーマは先生が入力するので、教科を問わず、グループで話し合う授業に使えます。</p></details>\n      <details><summary>先生と生徒は何を準備すればいいですか？</summary><p>先生はテーマを入れるだけです。先生のアカウントは、利用の申し込みのあとに招待でお渡しします。生徒はGoogleアカウントでログインし、6桁のコードかQRコードで参加して、議論の前に意見を書き、声を約9秒で登録します。</p></details>\n      <details><summary>どんな端末で使えますか？</summary><p>生徒はタブレットやスマホのブラウザから参加できます。インストールは不要です。</p></details>\n    </div>\n  </div>\n</section>\n\n<section class=\"cta\" id=\"start\">\n  <svg class=\"wave\" data-wave preserveAspectRatio=\"none\" aria-hidden=\"true\"></svg>\n  <h2 class=\"rv\">次の話し合いから、<br>埋もれていた考えに<br>目を向けよう。</h2>\n  <div class=\"acts rv d1\"><a href=\"mailto:contact@yuto-matsui.com?subject=Topos%20%E3%81%AE%E5%88%A9%E7%94%A8%E7%94%B3%E3%81%97%E8%BE%BC%E3%81%BF&amp;body=%E5%AD%A6%E6%A0%A1%E5%90%8D%EF%BC%9A%0A%E3%81%8A%E5%90%8D%E5%89%8D%EF%BC%9A%0A%E6%8B%85%E5%BD%93%E3%81%AE%E6%8E%88%E6%A5%AD%E3%83%BB%E5%AD%A6%E5%B9%B4%EF%BC%9A%0A%E4%BD%BF%E3%81%86%E6%95%99%E5%93%A1%E3%81%AE%E4%BA%BA%E6%95%B0%EF%BC%9A%0A\" class=\"pill\">利用を申し込む</a><a href=\"/\" class=\"more\">ログイン ›</a></div>\n</section>\n<footer><div class=\"wrap\">画面と数値は開発中のデモデータです。<div class=\"ln\"><span>© 2026 Topos</span><a href=\"/about\">プライバシー</a><a href=\"mailto:contact@yuto-matsui.com?subject=Topos%20%E3%81%AE%E5%88%A9%E7%94%A8%E7%94%B3%E3%81%97%E8%BE%BC%E3%81%BF&amp;body=%E5%AD%A6%E6%A0%A1%E5%90%8D%EF%BC%9A%0A%E3%81%8A%E5%90%8D%E5%89%8D%EF%BC%9A%0A%E6%8B%85%E5%BD%93%E3%81%AE%E6%8E%88%E6%A5%AD%E3%83%BB%E5%AD%A6%E5%B9%B4%EF%BC%9A%0A%E4%BD%BF%E3%81%86%E6%95%99%E5%93%A1%E3%81%AE%E4%BA%BA%E6%95%B0%EF%BC%9A%0A\">お問い合わせ</a></div></div></footer>";

diff --git a/web/src/app/lp/lp.css b/web/src/app/lp/lp.css
@@ -47,17 +47,17 @@
 .tlp .d3{transition-delay:.36s}
 .tlp .d4{transition-delay:.5s}
 .tlp .hero{position:relative;text-align:center;overflow:hidden;height:calc(100svh - 52px);min-height:520px;display:flex;flex-direction:column}
-.tlp .hero .htx{padding:clamp(28px,6.5vh,72px) 24px 0;position:relative;z-index:2}
-.tlp .hero .kick{font-size:clamp(17px,2.4vh,24px);font-weight:700;color:#a1a1a6}
-.tlp .hero h1{font-size:clamp(34px,min(5.6vw,8.4vh),88px);line-height:1.18;font-weight:900;letter-spacing:-.03em;margin-top:clamp(6px,1.4vh,14px)}
+.tlp .hero .htx{padding:clamp(18px,4.2vh,64px) 24px 0;position:relative;z-index:2}
+.tlp .hero .kick{font-size:clamp(15px,2.1vh,24px);font-weight:700;color:#a1a1a6}
+.tlp .hero h1{font-size:clamp(30px,min(5.6vw,6.8vh),88px);line-height:1.18;font-weight:900;letter-spacing:-.03em;margin-top:clamp(6px,1.4vh,14px)}
 .tlp .hero h1 span{display:block}
-.tlp .hero .lead{font-size:clamp(16px,min(1.7vw,2.6vh),23px);color:#a1a1a6;font-weight:500;margin-top:clamp(12px,2.6vh,26px);line-height:1.6}
-.tlp .hero .acts{display:flex;justify-content:center;align-items:center;gap:28px;margin-top:clamp(18px,3.6vh,36px)}
+.tlp .hero .lead{font-size:clamp(15px,min(1.7vw,2.2vh),23px);color:#a1a1a6;font-weight:500;margin-top:clamp(10px,2vh,26px);line-height:1.6}
+.tlp .hero .acts{display:flex;justify-content:center;align-items:center;gap:28px;margin-top:clamp(14px,2.8vh,36px)}
 .tlp .sw{flex:1;position:relative;min-height:0}
 .tlp .hero .acts .pill{height:48px;padding:0 26px;font-size:17px}
 .tlp .hero .acts .more{font-size:19px}
 .tlp .stage{position:absolute;left:50%;top:clamp(0px,2vh,24px);width:1440px;margin-left:-720px;height:760px;transform-origin:50% 0}
-.tlp .stage .wave{position:absolute;left:0;top:40px;width:100%;height:340px}
+.tlp .sw .hw{position:absolute;left:0;width:100%;top:0;height:340px}
 .tlp .dev{position:absolute;will-change:transform}
 .tlp .laptop{left:220px;top:80px;width:1000px;transform-origin:50% 0}
 .tlp .laptop .bz{background:#1d1d1f;border-radius:22px 22px 0 0;padding:16px 16px 22px;box-shadow:inset 0 0 0 1px #3a3a3c,0 -20px 120px rgba(120,100,255,.25)}
@@ -285,7 +285,7 @@
 .tlp .cta .acts{display:flex;justify-content:center;align-items:center;gap:28px;margin-top:52px;position:relative}
 .tlp .cta .pill{height:56px;padding:0 32px;font-size:19px}
 .tlp .cta .more{font-size:21px}
-.tlp .cta .wave{position:absolute;left:50%;margin-left:-720px;width:1440px;height:340px;bottom:20px;opacity:.6}
+.tlp .cta .wave{position:absolute;left:0;width:100%;height:340px;bottom:20px;opacity:.6}
 .tlp footer{background:var(--g1);color:var(--g3);font-size:12px;line-height:1.8;padding:24px 0 36px}
 .tlp footer .ln{display:flex;gap:28px;color:#424245;margin-top:8px}
 @media (max-width:734px){
@@ -331,7 +331,6 @@
 .tlp .hero .acts .pill{height:42px;padding:0 20px;font-size:15px}
 .tlp .hero .acts .more{font-size:16px}
 .tlp .stage{width:390px;margin-left:-195px;height:480px}
-.tlp .stage .wave{top:0;height:200px}
 .tlp .laptop{display:none}
 .tlp .hero .phone{left:83px;top:0;width:224px}
 .tlp .hero .phone .scr{width:202px!important;height:437px!important;border-radius:38px!important}
@@ -374,7 +373,7 @@
 .tlp .hl{padding:110px 0 90px}
 .tlp .pv{padding:110px 0}
 .tlp .cta{padding:120px 0 260px}
-.tlp .cta .wave{width:390px;margin-left:-195px;height:200px}
+.tlp .cta .wave{height:200px}
 .tlp footer .ln{flex-wrap:wrap;gap:8px 20px}
 
 }

diff --git a/web/src/components/lp/lpMotion.js b/web/src/components/lp/lpMotion.js
@@ -15,15 +15,17 @@ if(STATIC){root.classList.add('static');root.querySelectorAll('.faq details').fo
 const reduce=matchMedia('(prefers-reduced-motion: reduce)').matches;
 const mobile=()=>innerWidth<=734;
 
-/* waveform */
-root.querySelectorAll('[data-wave]').forEach((svg,k)=>{
-  const N=96,W=1440,H=340,bw=6,A=[76,141,246],B=[155,92,255],C=[255,106,213];
+/* waveform：画面の横幅いっぱいに描く。棒の間隔は約15pxで、幅が変わったら描き直す */
+const waves=[...root.querySelectorAll('[data-wave]')];
+const drawWaves=()=>waves.forEach((svg,k)=>{
+  const W=Math.max(320,Math.round(svg.clientWidth||innerWidth)),H=340,N=Math.max(24,Math.round(W/15)),bw=6,A=[76,141,246],B=[155,92,255],C=[255,106,213];
+  if(svg.dataset.w===String(W))return;svg.dataset.w=String(W);svg.setAttribute('viewBox',`0 0 ${W} ${H}`);
   const L=(a,b,t)=>a.map((v,i)=>Math.round(v+(b[i]-v)*t));let s='';
   for(let i=0;i<N;i++){const t=i/(N-1);let h=(0.35+0.65*Math.abs(Math.sin(i*0.37+.3)*Math.cos(i*0.11+.6)))*H*.95*(0.55+0.45*Math.sin(Math.PI*t));h=Math.max(h,12);
     const c=t<.5?L(A,B,t*2):L(B,C,(t-.5)*2);const x=i*(W/N)+(W/N-bw)/2;
     s+=`<rect x="${x.toFixed(1)}" y="${((H-h)/2).toFixed(1)}" width="${bw}" height="${h.toFixed(1)}" rx="3" fill="rgb(${c})" style="animation-delay:${(-(i*0.13+k*0.4)%2.4).toFixed(2)}s"/>`;}
-  svg.innerHTML=s;
-});
+  svg.innerHTML=s;});
+drawWaves();on('resize',drawWaves);
 
 /* recreated app screens */
 const pc=`<div class="top"><div><div class="t1">クラス全体 ＞ グループ1</div><div class="t2">グループ1の話し合い</div></div><div><span class="demo">デモデータ</span><span class="av">T</span></div></div>
@@ -43,7 +45,11 @@ refl:hd(4,'ステップ 4/4：結果')+`<div class="cd" style="border:2px solid 
 root.querySelectorAll('[data-app="pc"]').forEach(e=>e.innerHTML=pc);
 root.querySelectorAll('[data-m]').forEach(e=>e.innerHTML=M[e.dataset.m]);
 const stage=$id('stage'),sw=$id('sw');
-const fitStage=()=>{const h=sw.clientHeight,w=innerWidth;const mob=mobile();const dh=mob?400:560,dw=mob?390:1320;const k=Math.max(.42,Math.min(1,h/dh,w/dw));stage.style.transform=`scale(${k})`};fitStage();on('resize',fitStage);
+const hwave=root.querySelector('.sw .hw');
+const fitStage=()=>{const h=sw.clientHeight,w=innerWidth;const mob=mobile();const dh=mob?470:760,dw=mob?390:1320;const top=stage.offsetTop;const k=Math.max(.3,Math.min(1,(h-top)/dh,w/dw));stage.style.transform=`scale(${k})`;
+  // 波はデバイスの中心の高さに置く（PC はノートの画面、スマホは電話の中心）
+  const cy=top+(mob?250:400)*k,wh=Math.max(mob?170:220,(mob?220:380)*k);hwave.style.top=`${(cy-wh/2).toFixed(0)}px`;hwave.style.height=`${wh.toFixed(0)}px`;};
+fitStage();on('resize',fitStage);
 const fitM=()=>root.querySelectorAll('.m').forEach(m=>{const w=m.parentElement.clientWidth;if(w)m.style.transform=`scale(${w/390})`});fitM();on('resize',fitM);
 
 /* statement chars */
